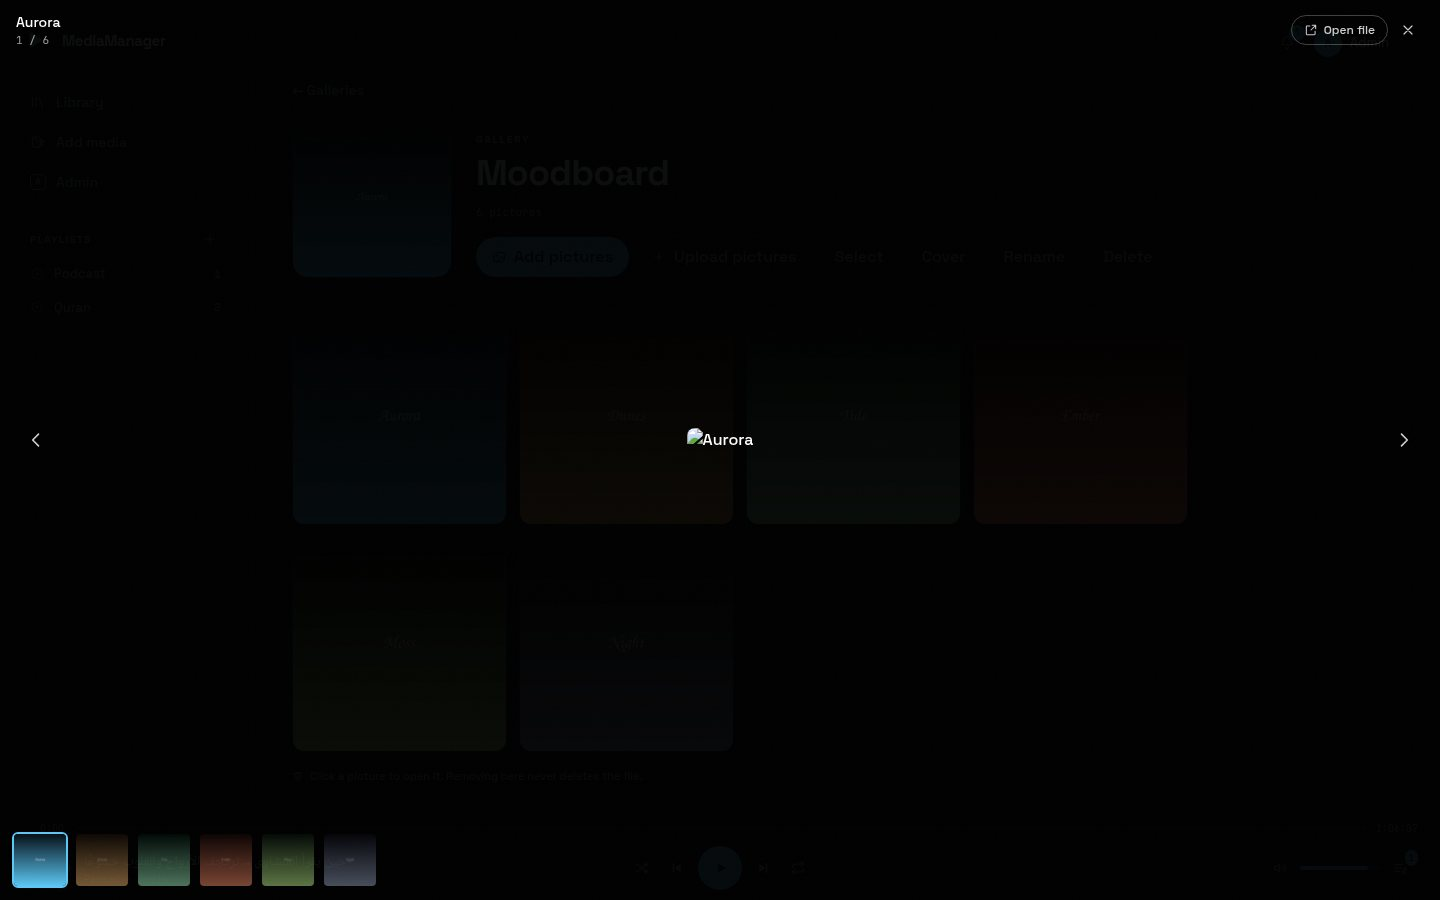
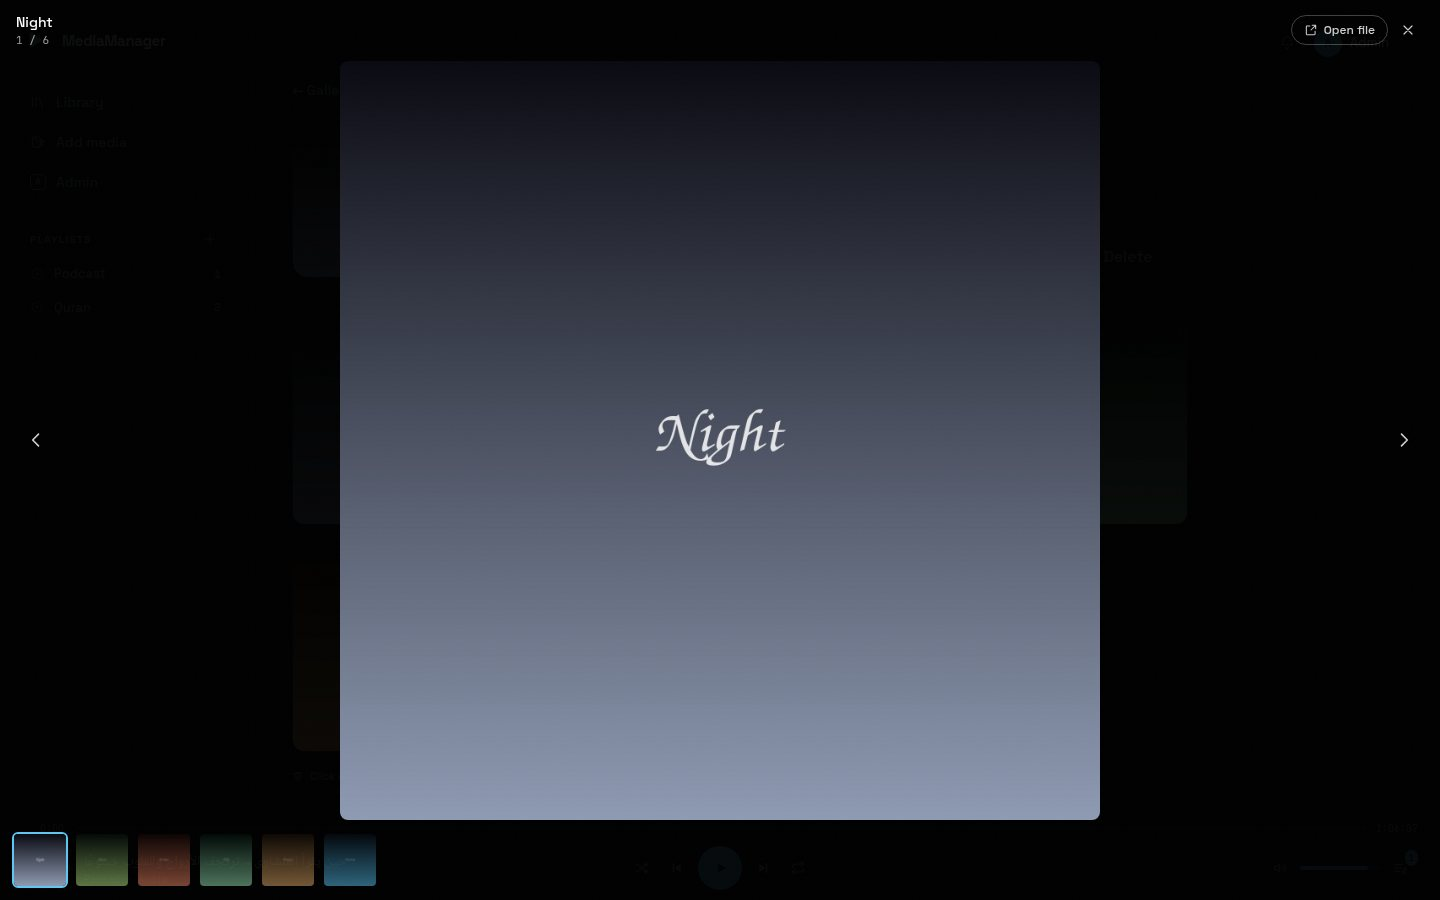
docs: refresh gallery screenshots and fix the Galleries count
- Recaptured screenshots after the JPEG lightbox fix; the lightbox now
  shows the image instead of alt text.
- Galleries header reports galleries (and loose pictures) instead of
  saying Nothing here yet or double-counting shared pictures.
- Installer/API rebuild notes preserved.

diff --git a/apps/web/src/components/Library.tsx b/apps/web/src/components/Library.tsx
@@ -462,9 +462,19 @@ export function Library() {
 
   const countLabel = useMemo(() => {
     if (loading) return "Fetching your collection…";
+    if (kind === "picture") {
+      if (galleries.length === 0 && total === 0) return "Nothing here yet";
+      const parts = [
+        `${galleries.length} ${galleries.length === 1 ? "gallery" : "galleries"}`,
+      ];
+      if (total > 0) {
+        parts.push(`${total} loose ${total === 1 ? "picture" : "pictures"}`);
+      }
+      return parts.join(" · ");
+    }
     if (total === 0) return "Nothing here yet";
     return `${total.toLocaleString()} ${total === 1 ? "item" : "items"}`;
-  }, [loading, total]);
+  }, [loading, total, kind, galleries]);
 
   return (
     <div>
